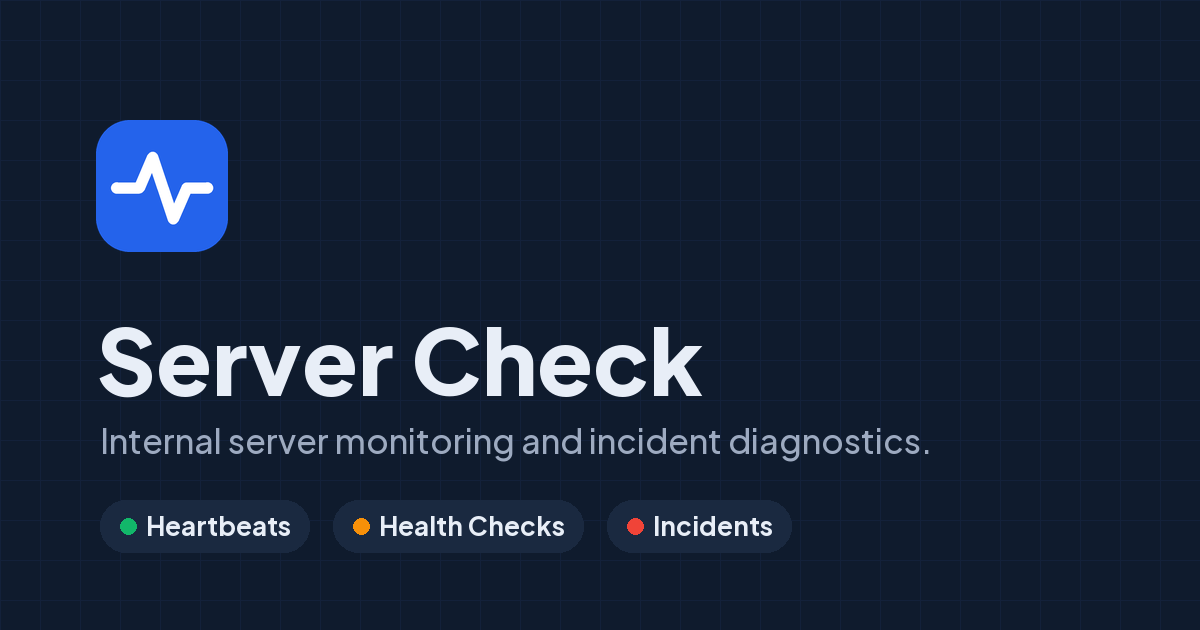
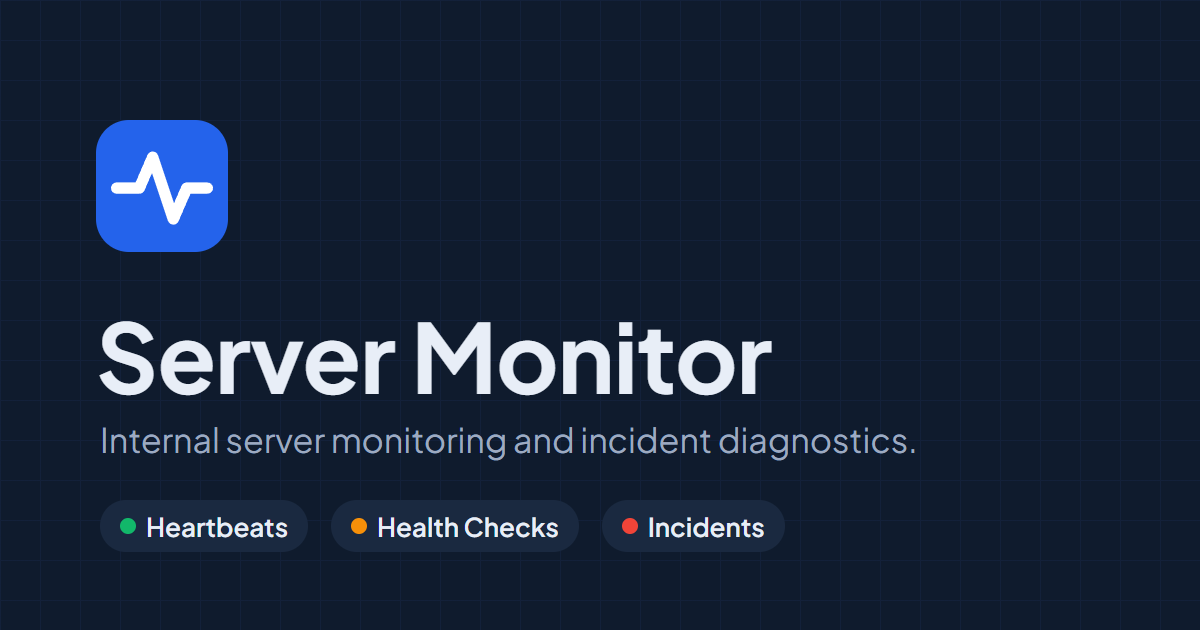
chore: rename visible branding to Server Monitor
- App UI, page titles, link preview image, Telegram test message, logs and docs
- Agent script text and filenames, database and service names stay unchanged
- Add missing requirePermission to the Telegram test route auth mock

diff --git a/index.html b/index.html
@@ -3,9 +3,9 @@
   <head>
     <meta charset="UTF-8" />
     <meta name="viewport" content="width=device-width, initial-scale=1, viewport-fit=cover" />
-    <title>Server Check</title>
+    <title>Server Monitor</title>
     <meta name="description" content="Internal server monitoring and incident diagnostics." />
-    <meta name="application-name" content="Server Check" />
+    <meta name="application-name" content="Server Monitor" />
     <meta name="robots" content="noindex, nofollow" />
     <meta name="theme-color" content="#F3F5F9" media="(prefers-color-scheme: light)" />
     <meta name="theme-color" content="#111317" media="(prefers-color-scheme: dark)" />
@@ -16,21 +16,21 @@
 
     <!-- Link previews (Telegram, Slack, Teams). __PUBLIC_BASE_URL__ is replaced with the configured PUBLIC_BASE_URL origin when the page is served. -->
     <meta property="og:type" content="website" />
-    <meta property="og:site_name" content="Server Check" />
-    <meta property="og:title" content="Server Check" />
+    <meta property="og:site_name" content="Server Monitor" />
+    <meta property="og:title" content="Server Monitor" />
     <meta property="og:description" content="Internal server monitoring and incident diagnostics." />
     <meta property="og:url" content="__PUBLIC_BASE_URL__/" />
     <meta property="og:image" content="__PUBLIC_BASE_URL__/og-image.png" />
     <meta property="og:image:type" content="image/png" />
     <meta property="og:image:width" content="1200" />
     <meta property="og:image:height" content="630" />
-    <meta property="og:image:alt" content="Server Check — Internal server monitoring and incident diagnostics." />
+    <meta property="og:image:alt" content="Server Monitor — Internal server monitoring and incident diagnostics." />
     <meta property="og:locale" content="en_US" />
     <meta name="twitter:card" content="summary_large_image" />
-    <meta name="twitter:title" content="Server Check" />
+    <meta name="twitter:title" content="Server Monitor" />
     <meta name="twitter:description" content="Internal server monitoring and incident diagnostics." />
     <meta name="twitter:image" content="__PUBLIC_BASE_URL__/og-image.png" />
-    <meta name="twitter:image:alt" content="Server Check — Internal server monitoring and incident diagnostics." />
+    <meta name="twitter:image:alt" content="Server Monitor — Internal server monitoring and incident diagnostics." />
   </head>
   <body>
     <div id="root"></div>

diff --git a/src/client/components/AppShell.tsx b/src/client/components/AppShell.tsx
@@ -72,7 +72,7 @@ export function AppShell({ children }: { children: ReactNode }) {
       <header className="mobile-header">
         <NavLink className="wordmark" to={hasPermission(user, "view_projects") ? "/projects" : "/settings/password"}>
           <span className="brand-mark" aria-hidden="true"><Activity /></span>
-          Server Check
+          Server Monitor
         </NavLink>
         <button
           ref={menuButtonRef}
@@ -98,7 +98,7 @@ export function AppShell({ children }: { children: ReactNode }) {
         <NavLink className="wordmark sidebar__wordmark" to={hasPermission(user, "view_projects") ? "/projects" : "/settings/password"} onClick={() => setMenuOpen(false)}>
           <span className="brand-mark" aria-hidden="true"><Activity /></span>
           <span>
-            Server Check
+            Server Monitor
             <small>Internal Operations</small>
           </span>
         </NavLink>
@@ -211,7 +211,7 @@ export function AppShell({ children }: { children: ReactNode }) {
       >
         {children}
         <footer className="system-footer">
-          <span>Server Check 0.1.0</span>
+          <span>Server Monitor 0.1.0</span>
         </footer>
       </main>
     </div>

diff --git a/tests/unit/platform-telegram-test-route.test.ts b/tests/unit/platform-telegram-test-route.test.ts
@@ -31,7 +31,8 @@ vi.mock("../../src/server/middleware/auth.js", () => ({
     };
     next();
   },
-  requireRole: () => (_request: Request, _response: Response, next: NextFunction) => next()
+  requireRole: () => (_request: Request, _response: Response, next: NextFunction) => next(),
+  requirePermission: () => (_request: Request, _response: Response, next: NextFunction) => next()
 }));
 
 vi.mock("../../src/server/middleware/csrf.js", () => ({
@@ -96,7 +97,7 @@ describe("platform Telegram test route", () => {
     expect(sendTelegramMessageMock).toHaveBeenCalledWith({
       botToken,
       chatId: "@ops_alerts",
-      text: expect.stringMatching(/^\[TEST\] Server Check/)
+      text: expect.stringMatching(/^\[TEST\] Server Monitor/)
     });
   });
 

diff --git a/tests/unit/agents-page.test.tsx b/tests/unit/agents-page.test.tsx
@@ -233,7 +233,7 @@ describe("project-scoped agents page", () => {
       name: "Switch Project: Project Atlas"
     });
 
-    expect(screen.getByRole("link", { name: /Server Check\s*Internal Operations/ })).toHaveAttribute("href", "/projects");
+    expect(screen.getByRole("link", { name: /Server Monitor\s*Internal Operations/ })).toHaveAttribute("href", "/projects");
     expect(screen.queryByRole("link", { name: "All projects" })).not.toBeInTheDocument();
     expect(settingsLink).toHaveAttribute("href", "/settings");
     expect(overviewLink).toHaveAttribute(

diff --git a/src/server/index.ts b/src/server/index.ts
@@ -14,12 +14,12 @@ async function main(): Promise<void> {
   server.listen(config.port, config.host, () => {
     logger.info(
       { host: config.host, port: config.port, environment: config.nodeEnv },
-      "Server Check is listening"
+      "Server Monitor is listening"
     );
   });
 
   const shutdown = async (signal: string) => {
-    logger.info({ signal }, "Shutting down Server Check");
+    logger.info({ signal }, "Shutting down Server Monitor");
     stopWorkers();
     server.close(async () => {
       await closePool();

diff --git a/src/client/pages/AgentDetailPage.tsx b/src/client/pages/AgentDetailPage.tsx
@@ -315,7 +315,7 @@ export function AgentDetailPage() {
         <div className="section-heading">
           <div>
             <h2 id="server-state-definitions-title">Server State Definitions</h2>
-            <p id="server-state-definitions-description">How Server Check classifies the current condition of an agent.</p>
+            <p id="server-state-definitions-description">How Server Monitor classifies the current condition of an agent.</p>
           </div>
           <button
             className="icon-button"

diff --git a/src/server/routes/settings.ts b/src/server/routes/settings.ts
@@ -242,7 +242,7 @@ export function createSettingsRouter(config: AppConfig): Router {
         await sendTelegramMessage({
           botToken,
           chatId: settings.telegram_chat_id,
-          text: `[TEST] Server Check\nPlatform Telegram delivery is configured and working.\nSent at: ${new Date().toISOString()}`
+          text: `[TEST] Server Monitor\nPlatform Telegram delivery is configured and working.\nSent at: ${new Date().toISOString()}`
         });
       } catch {
         throw new AppError(

diff --git a/src/client/components/TelegramSettingsForm.tsx b/src/client/components/TelegramSettingsForm.tsx
@@ -185,7 +185,7 @@ export function TelegramSettingsForm({
       <div className="section-heading">
         <div>
           <h2 id="telegram-title">Telegram Alerts</h2>
-          <p>Prepare one channel or group where Server Check sends every alert and recovery.</p>
+          <p>Prepare one channel or group where Server Monitor sends every alert and recovery.</p>
         </div>
       </div>
 

diff --git a/src/server/scripts/setup.ts b/src/server/scripts/setup.ts
@@ -6,7 +6,7 @@ async function main(): Promise<void> {
   const config = loadConfig();
   await verifyDatabaseConnection(config);
   await runMigrations(config);
-  process.stdout.write("Server Check database setup completed.\n");
+  process.stdout.write("Server Monitor database setup completed.\n");
   process.stdout.write("Run npm run create-admin to create an internal administrator.\n");
 }
 

diff --git a/src/client/pages/ProjectsPage.tsx b/src/client/pages/ProjectsPage.tsx
@@ -61,7 +61,7 @@ export function ProjectsPage() {
         <div>
           <nav className="page-breadcrumb" aria-label="Breadcrumb">
             <ol>
-              <li>Server Check</li>
+              <li>Server Monitor</li>
               <li aria-current="page">Projects</li>
             </ol>
           </nav>

diff --git a/src/client/pages/LoginPage.tsx b/src/client/pages/LoginPage.tsx
@@ -54,7 +54,7 @@ export function LoginPage() {
           <div className="wordmark login-wordmark">
             <ShieldCheck aria-hidden="true" />
             <span>
-              Server Check
+              Server Monitor
               <small>Internal Operations</small>
             </span>
           </div>

diff --git a/README.md b/README.md
@@ -1,4 +1,4 @@
-# Server Check
+# Server Monitor
 
 ### Central Healthcheck
 
@@ -71,7 +71,7 @@ Never point that test at development, shared, or production data. It exercises r
 
 Retention limits record age, not total disk usage. Capacity still depends on agent count, report frequency, filesystems, and protected unresolved records. InnoDB generally reuses deleted space internally rather than shrinking its files automatically. Track free space on the actual MySQL data volume separately (for example, warn below 20% free, critical below 10%); database allocation estimates do not include MySQL binary logs, backups, or PM2/application logs. Configure their rotation/expiry separately with the database/backup operator, respecting replication and recovery requirements. Investigate persistent backlog or rising allocation rather than deleting protected or recent data to meet an arbitrary size cap. Any physical table rebuild requires a planned maintenance window, backup, and enough free disk space.
 
-Server Check is an internal, multi-project server-monitoring service. A generated one-file Linux agent probes a server-local health API, collects host metrics, and reports to a central Node.js API. The central service retains seven days of raw history, evaluates agent-specific thresholds, records incidents, sends Telegram notifications, and serves a React/TypeScript backoffice.
+Server Monitor is an internal, multi-project server-monitoring service. A generated one-file Linux agent probes a server-local health API, collects host metrics, and reports to a central Node.js API. The central service retains seven days of raw history, evaluates agent-specific thresholds, records incidents, sends Telegram notifications, and serves a React/TypeScript backoffice.
 
 ## Current verification status
 
